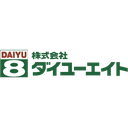
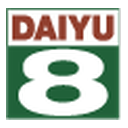
ロゴマーク部分のみに差し替え・オフハウスを拡大
ダイユーエイト・コメリ・ヤマダ・セカンドストリート・トレファク・サンデーを
ケーズデンキと同様のロゴマークのみ表示に統一。オフハウスは縦に拡張しピン内で視認性を向上。

diff --git a/sw.js b/sw.js
@@ -1,4 +1,4 @@
-const CACHE_NAME = 'sedori-route-v31';
+const CACHE_NAME = 'sedori-route-v32';
 const ASSETS = [
   './',
   './index.html',
